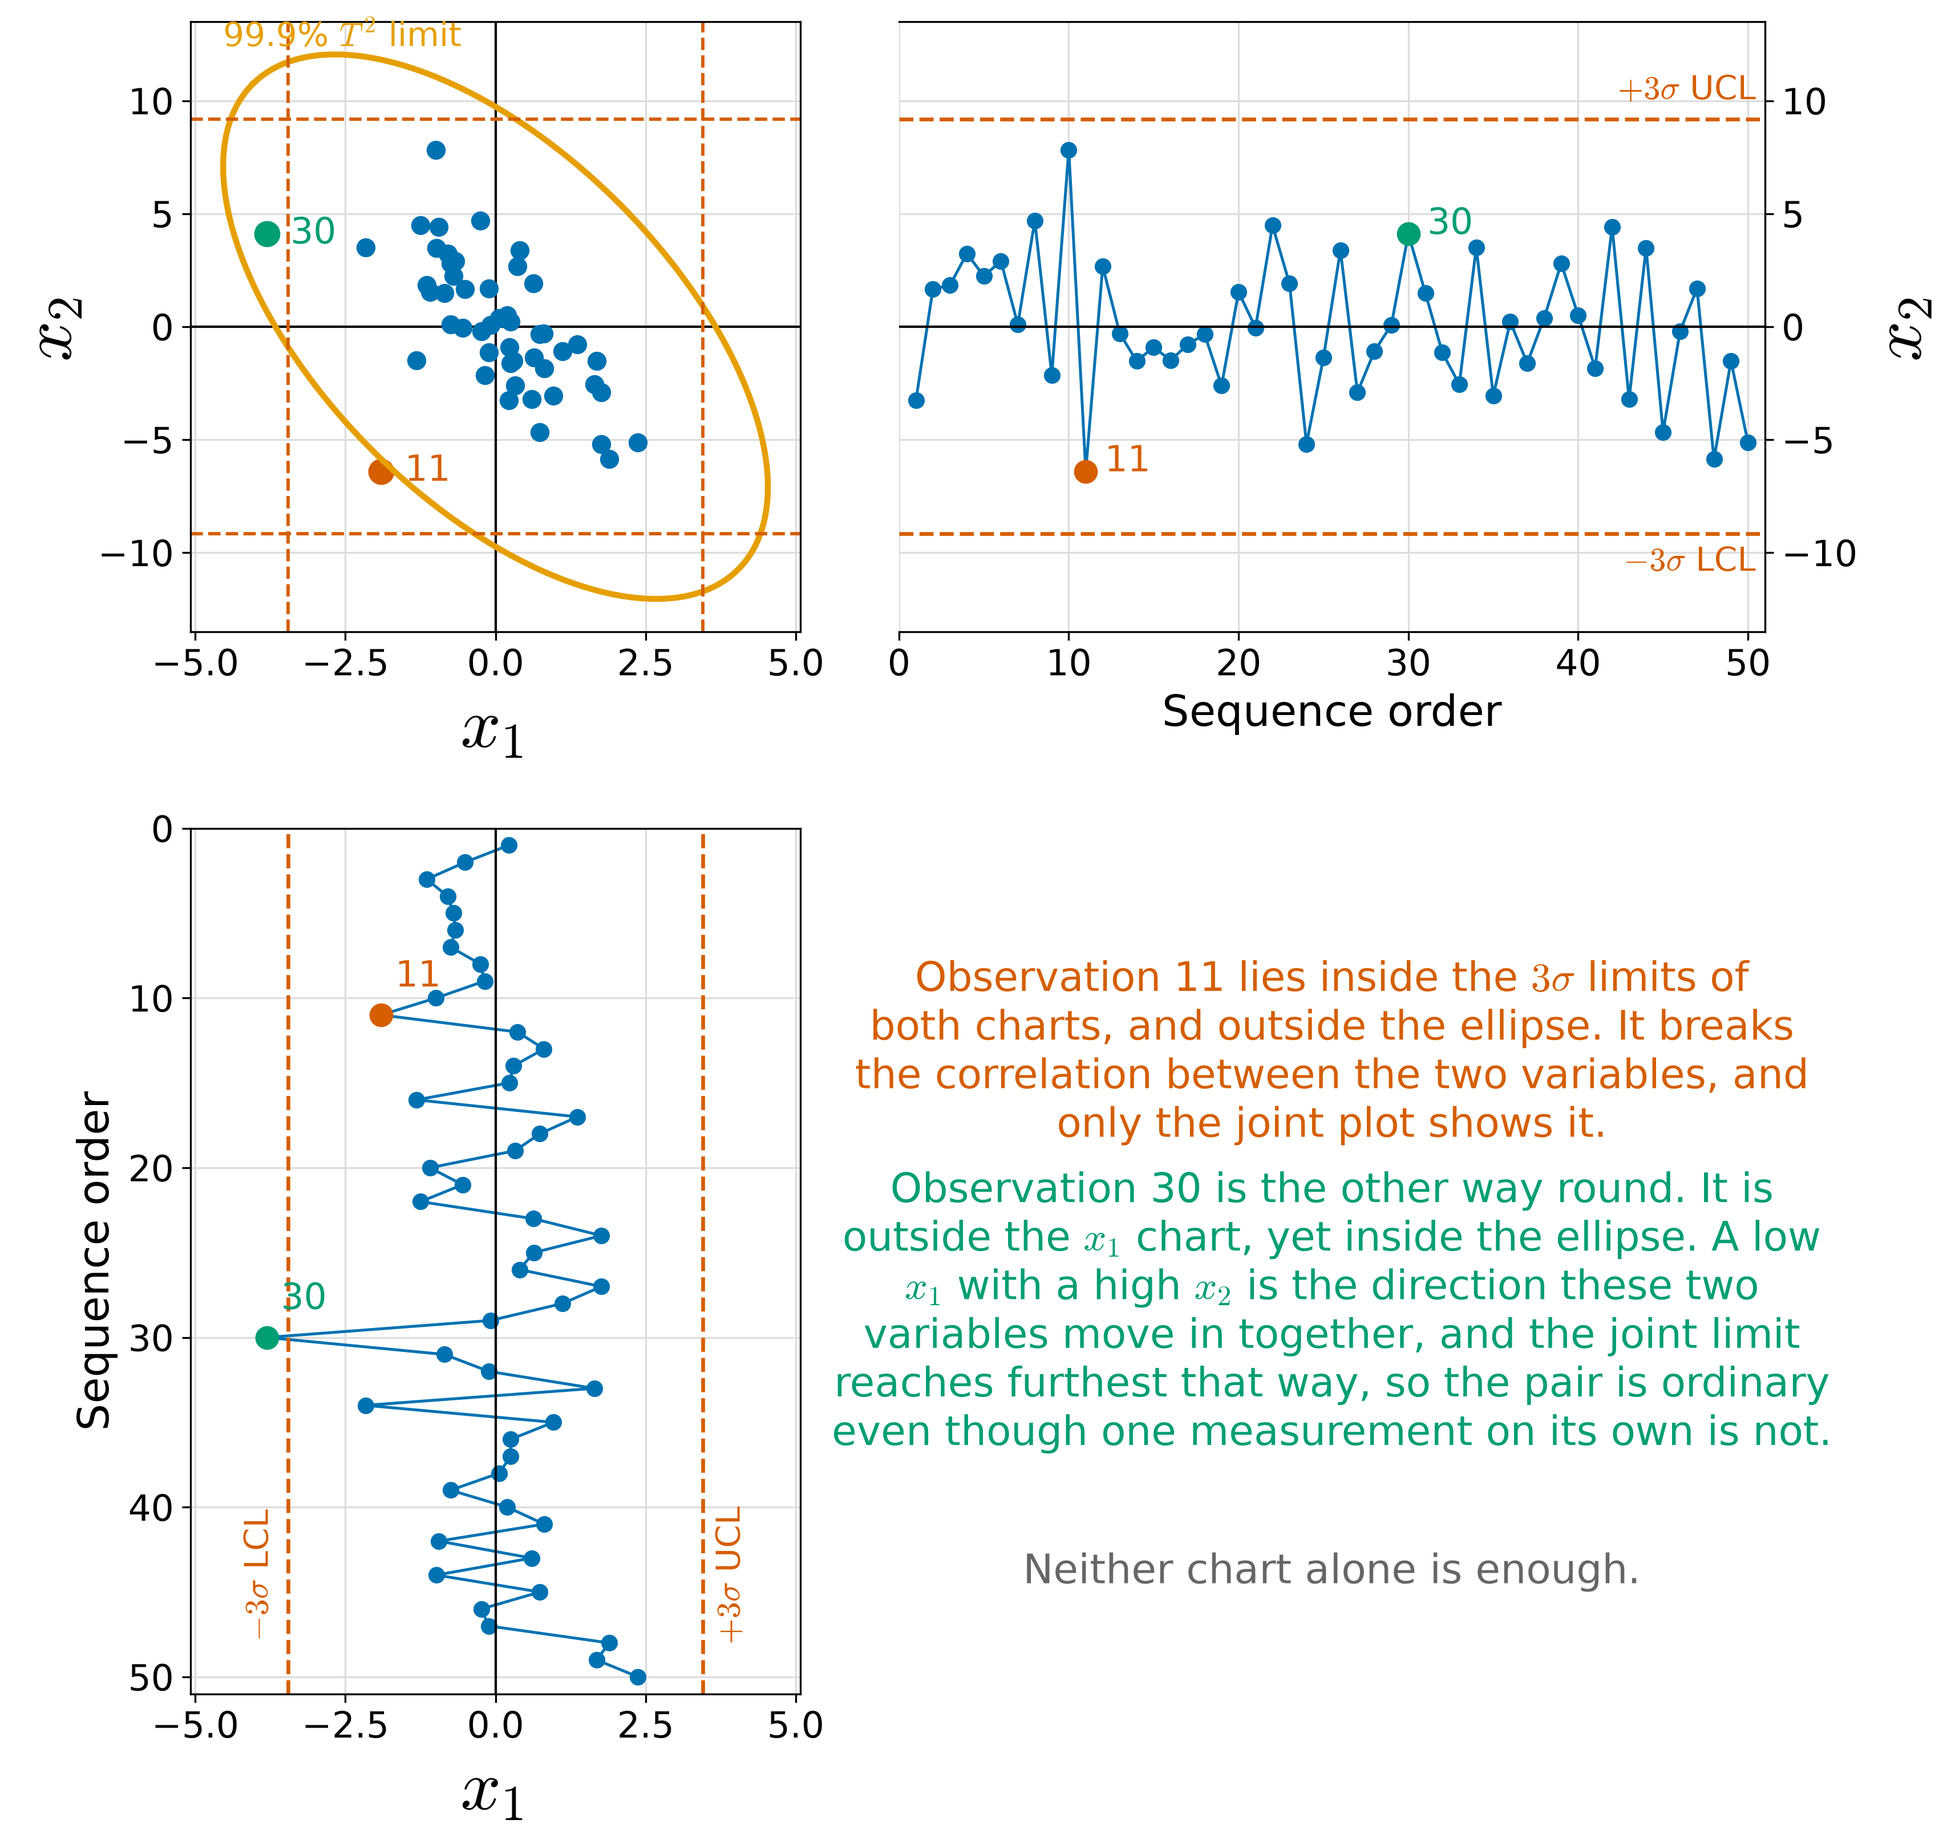
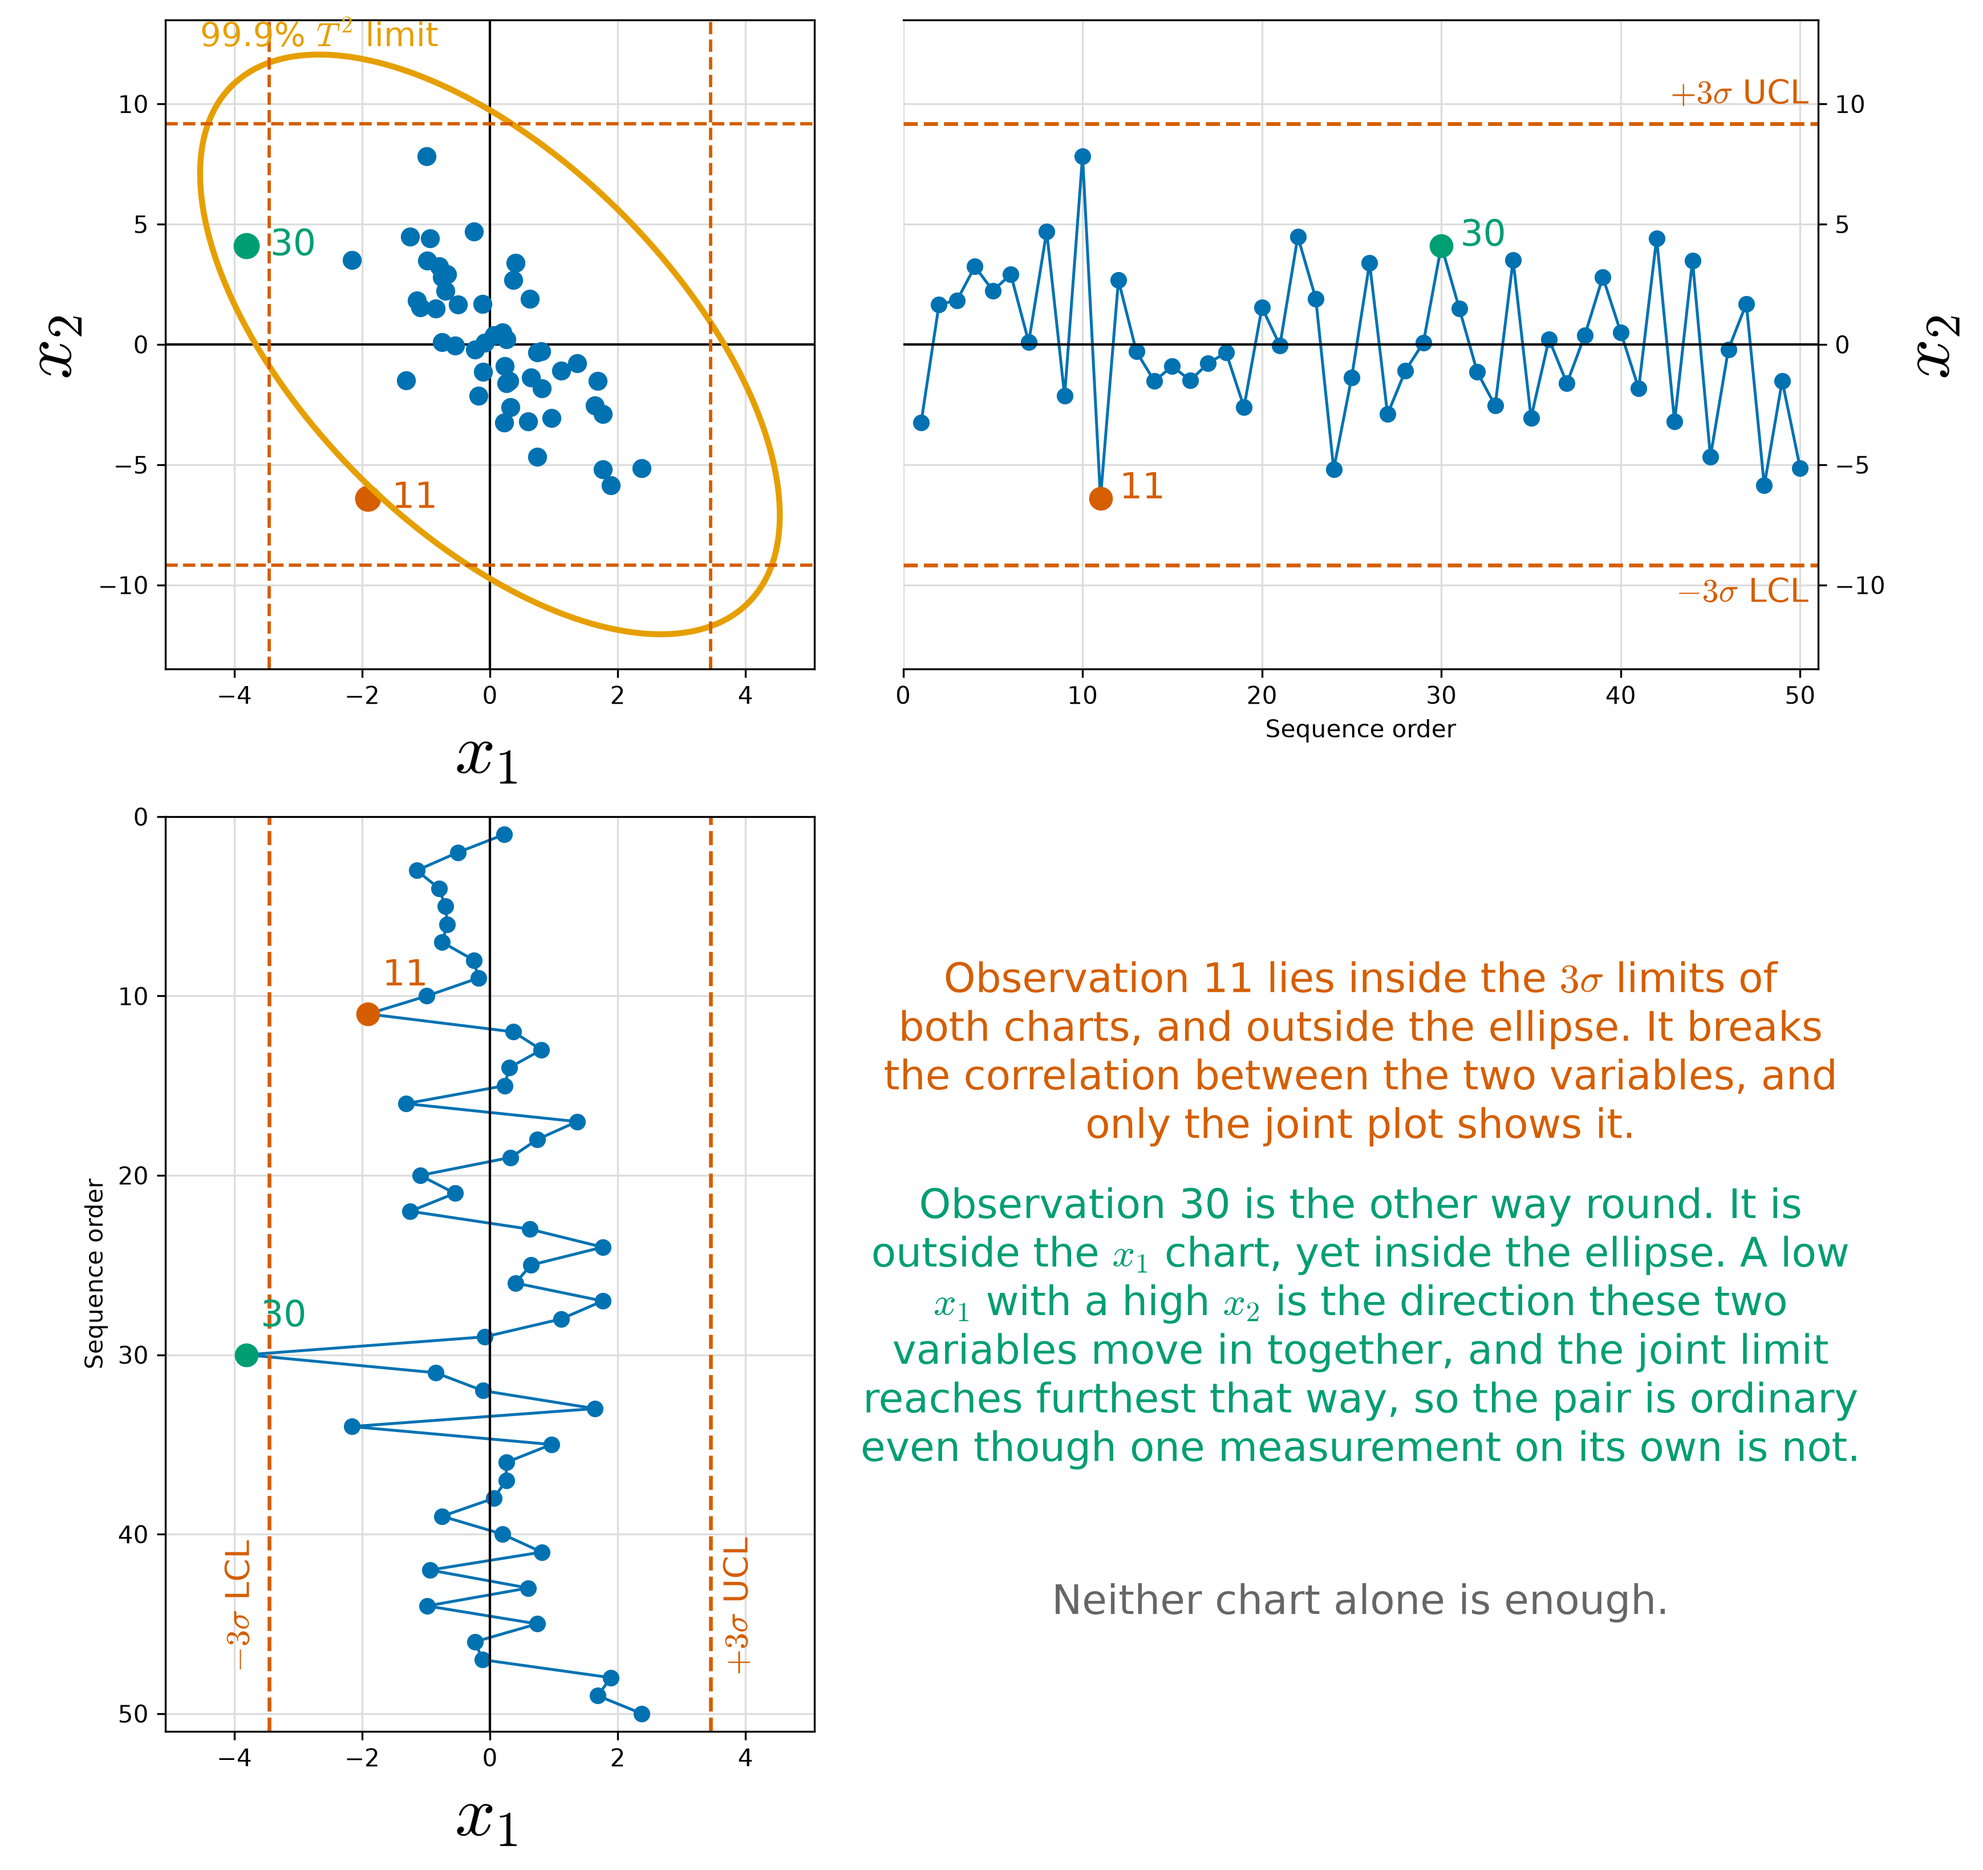
Leave the tick labels and the axis text at their original sizes
The previous commit also raised the tick labels from 10 point to 15 and the
"Sequence order" labels to 18, neither of which was asked for. Both are
back to where they were. Only x1 and x2 are enlarged, and the maths is
still set in Computer Modern.

The vertical gap between the panels stays wider than it originally was,
0.075 against 0.045. That one is not a separate choice: the scatter plot's
x1 label hangs into that gap, and at 30 point it does not fit in 0.045, so
it lands on top of the panel below. With the tick labels back at 10 point
the gap can come in from the 0.10 it needed a moment ago, and the panels
grow back most of the way, but not all of it.

Claude-Session: https://claude.ai/code/session_01D58KmvE1L75DDE7pqfJPeL

diff --git a/monitoring/two_axis_monitoring_figure.py b/monitoring/two_axis_monitoring_figure.py
@@ -62,13 +62,11 @@ GRID = "#DDDDDD"
 # machine, which would stop a reader without one from running this script.
 # The surrounding words stay in the sans face the other figures use.
 mpl.rcParams["mathtext.fontset"] = "cm"
-mpl.rcParams["font.size"] = 15
 
 DPI = 300
 # The variable names carry the figure: they say which panel belongs to which
 # measurement, and the whole arrangement rests on that.
 VARIABLE_LABEL = 30
-AXIS_LABEL = 18
 HERE = pathlib.Path(__file__).parent
 
 N = 50
@@ -163,14 +161,14 @@ def main(outdir: pathlib.Path) -> None:
     # the top panel matching the height of the left one, so the fifty
     # observations are drawn at one scale instead of spread across the top
     # and crowded down the side.
-    panel = 0.31    # scatter: square, and the width and height the marginals share
-    run = 0.44      # the sequence axis, the same length across and down
-    left, bottom = 0.085, 0.07
+    panel = 0.33    # scatter: square, and the width and height the marginals share
+    run = 0.465     # the sequence axis, the same length across and down
+    left, bottom = 0.085, 0.075
     # The vertical gap is the wider of the two: the scatter plot's x1 label
     # hangs into it, above the panel below, and at this size it needs the
     # room. Nothing hangs into the horizontal gap, since the top chart keeps
     # its axis on its right-hand side.
-    vgap, hgap = 0.10, 0.05
+    vgap, hgap = 0.075, 0.045
 
     fig = plt.figure(figsize=(11.5, 11.5))
     scatter = fig.add_axes([left, bottom + run + vgap, panel, panel])
@@ -215,7 +213,7 @@ def main(outdir: pathlib.Path) -> None:
                     textcoords="offset points", xytext=(0, -5))
     across.set_xlim(0, N + 1)
     across.set_ylim(-span[1], span[1])
-    across.set_xlabel("Sequence order", fontsize=AXIS_LABEL)
+    across.set_xlabel("Sequence order")
     across.set_ylabel("$x_2$", fontsize=VARIABLE_LABEL)
     # Its y label would otherwise sit against the scatter plot.
     across.yaxis.set_label_position("right")
@@ -239,7 +237,7 @@ def main(outdir: pathlib.Path) -> None:
     down.set_xlim(-span[0], span[0])
     down.set_ylim(N + 1, 0)
     down.set_xlabel("$x_1$", fontsize=VARIABLE_LABEL)
-    down.set_ylabel("Sequence order", fontsize=AXIS_LABEL)
+    down.set_ylabel("Sequence order")
 
     for marked, colour in ((only_joint, VERMILLION), (only_univariate, GREEN)):
         for index in np.flatnonzero(marked):
